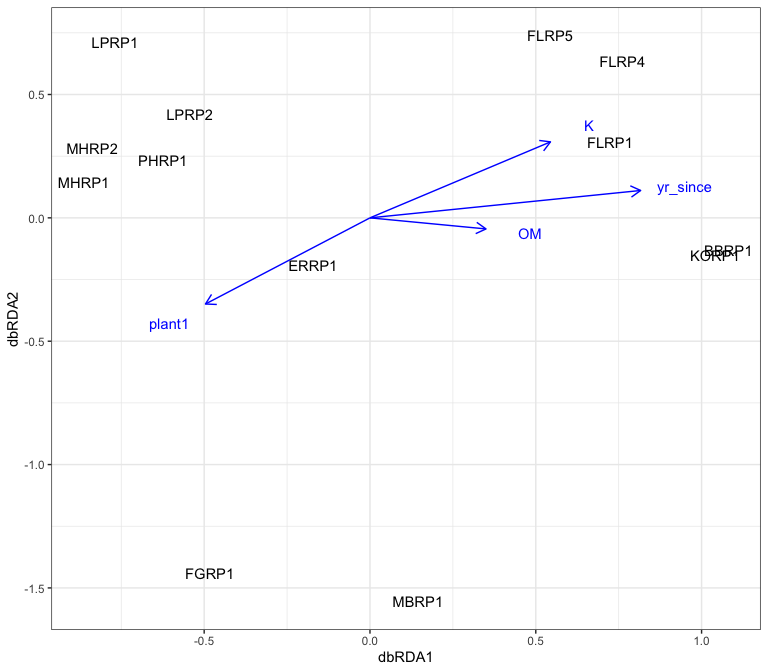
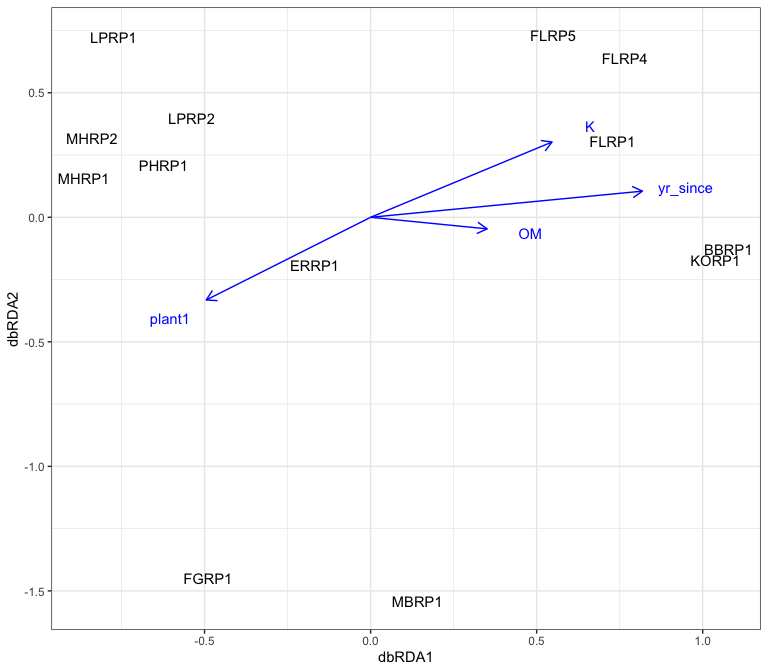
UPDATED tgr_constrained.R & .md

diff --git a/tgr_constrained.md b/tgr_constrained.md
@@ -2,7 +2,7 @@ Constrained and summary analysis
 ================
 Beau Larkin
 
-Last updated: 17 November, 2023
+Last updated: 01 December, 2023
 
 - [Description](#description)
 - [Packages and libraries](#packages-and-libraries)
@@ -31,6 +31,7 @@ Last updated: 17 November, 2023
       abundance)](#general-fungal-community-its-sequence-abundance)
     - [AMF community (18S sequence
       abundance)](#amf-community-18s-sequence-abundance)
+  - [Effects of soil and plants](#effects-of-soil-and-plants)
   - [Response correlations](#response-correlations)
 
 # Description
@@ -298,7 +299,7 @@ pspe <- list(
 ) %>% map(function(x) x %>% 
               rename(field_name = SITE) %>% 
               left_join(sites %>% select(starts_with("field"), region), by = join_by("field_name")) %>% 
-              select(field_name, field_type, region, everything(), -field_key))
+              select(field_name, field_type, region, everything(), -field_key, -BARESOIL, -LITTER))
 ```
 
 ## Environmental data
@@ -413,22 +414,22 @@ the abundance and presence/absence plant data.
     ## 
     ## $values
     ##   Dim Eigenvalues Relative_eig Broken_stick Cumul_eig Cumul_br_stick
-    ## 1   1   0.6185814    0.2317320    0.3143298 0.2317320      0.3143298
-    ## 2   2   0.5066828    0.1898127    0.2032187 0.4215447      0.5175485
-    ## 3   3   0.4485128    0.1680212    0.1476631 0.5895659      0.6652116
+    ## 1   1   0.6592570    0.2365141    0.3143298 0.2365141      0.3143298
+    ## 2   2   0.5440994    0.1952003    0.2032187 0.4317144      0.5175485
+    ## 3   3   0.4680283    0.1679092    0.1476631 0.5996236      0.6652116
     ## 
     ## $site_vectors
     ##            Axis.1      Axis.2
-    ## BBRP1  0.18696712 -0.05719659
-    ## ERRP1 -0.42120632  0.07701724
-    ## FGRP1  0.22768657 -0.23830561
-    ## KORP1  0.25705084 -0.02418826
-    ## LPRP1  0.07534780  0.39879804
-    ## LPRP2  0.17161860  0.26606275
-    ## MBRP1  0.15075088 -0.18310740
-    ## MHRP1 -0.02686684 -0.27809252
-    ## MHRP2 -0.44609709 -0.20258732
-    ## PHRP1 -0.17525156  0.24159967
+    ## BBRP1  0.20290126 -0.09287398
+    ## ERRP1 -0.43044076 -0.07760580
+    ## FGRP1  0.28666433 -0.07970389
+    ## KORP1  0.26355718 -0.14999596
+    ## LPRP1 -0.02010419  0.47968897
+    ## LPRP2  0.12484815  0.38958210
+    ## MBRP1  0.17920064 -0.21338125
+    ## MHRP1  0.01611089 -0.20409549
+    ## MHRP2 -0.45084157 -0.14870043
+    ## PHRP1 -0.17189593  0.09708574
 
 ``` r
 (pspe_pcoa_pr <- pcoa_fun(pspe$pr, rg = c("BM", "FG", "LP", "FL"), method = "jaccard", binary = TRUE))
@@ -439,25 +440,25 @@ the abundance and presence/absence plant data.
     ## 
     ## $values
     ##   Dim Eigenvalues Relative_eig Broken_stick Cumul_eig Cumul_br_stick
-    ## 1   1   0.9879052    0.2421821    0.2586009 0.2421821      0.2586009
-    ## 2   2   0.5728272    0.1404269    0.1752676 0.3826090      0.4338684
-    ## 3   3   0.4443108    0.1089215    0.1336009 0.4915305      0.5674693
+    ## 1   1   0.9562197    0.2299358    0.2586009 0.2299358      0.2586009
+    ## 2   2   0.5920732    0.1423719    0.1752676 0.3723077      0.4338684
+    ## 3   3   0.4634133    0.1114339    0.1336009 0.4837416      0.5674693
     ## 
     ## $site_vectors
     ##            Axis.1       Axis.2
-    ## BBRP1  0.21067579  0.087434428
-    ## ERRP1  0.22272287 -0.260905872
-    ## FGRP1  0.09141325  0.044743613
-    ## FLRP1 -0.52791888 -0.028042798
-    ## FLRP4 -0.52644384 -0.007428271
-    ## FLRP5 -0.42831294  0.043201635
-    ## KORP1  0.16233582  0.339613190
-    ## LPRP1  0.19555559  0.224978538
-    ## LPRP2  0.10602315  0.266489743
-    ## MBRP1  0.06484968 -0.137320443
-    ## MHRP1  0.19700860 -0.295295743
-    ## MHRP2  0.10057182 -0.374191665
-    ## PHRP1  0.13151908  0.096723644
+    ## BBRP1  0.20641293  0.094262023
+    ## ERRP1  0.21439889 -0.274249184
+    ## FGRP1  0.08005329  0.046027339
+    ## FLRP1 -0.52071381 -0.016041532
+    ## FLRP4 -0.51926721  0.004443971
+    ## FLRP5 -0.41527736  0.051578203
+    ## KORP1  0.16890218  0.327780631
+    ## LPRP1  0.19555015  0.233535348
+    ## LPRP2  0.11823091  0.253683185
+    ## MBRP1  0.05335394 -0.139092020
+    ## MHRP1  0.18966781 -0.305187933
+    ## MHRP2  0.08054080 -0.389175199
+    ## PHRP1  0.14814748  0.112435167
 
 ## Microbial communities with explanatory and covariables
 
@@ -529,7 +530,7 @@ dataset.
     ## 
     ## Model: dbrda(formula = fspe_bray ~ Condition(covars) + yr_since, data = expl, sqrt.dist = TRUE)
     ##          Df SumOfSqs      F Pr(>F)  
-    ## Model     1  0.54709 1.7407  0.016 *
+    ## Model     1  0.54709 1.7407 0.0155 *
     ## Residual  6  1.88570                
     ## ---
     ## Signif. codes:  0 '***' 0.001 '**' 0.01 '*' 0.05 '.' 0.1 ' ' 1
@@ -542,7 +543,7 @@ dataset.
     ## 
     ## Model: dbrda(formula = fspe_bray ~ Condition(covars) + yr_since, data = expl, sqrt.dist = TRUE)
     ##          Df SumOfSqs      F Pr(>F)  
-    ## dbRDA1    1  0.54709 1.7407 0.0215 *
+    ## dbRDA1    1  0.54709 1.7407 0.0165 *
     ## Residual  6  1.88570                
     ## ---
     ## Signif. codes:  0 '***' 0.001 '**' 0.01 '*' 0.05 '.' 0.1 ' ' 1
@@ -600,7 +601,7 @@ plot_dbrda(site_sc = dbrda_wi_tr_its$plot_data$sites,
     ## 
     ## Model: dbrda(formula = fspe_bray ~ Condition(covars) + yr_since, data = expl, sqrt.dist = TRUE)
     ##          Df SumOfSqs      F Pr(>F)  
-    ## Model     1  0.54709 1.7407 0.0145 *
+    ## Model     1  0.54709 1.7407 0.0155 *
     ## Residual  6  1.88570                
     ## ---
     ## Signif. codes:  0 '***' 0.001 '**' 0.01 '*' 0.05 '.' 0.1 ' ' 1
@@ -613,7 +614,7 @@ plot_dbrda(site_sc = dbrda_wi_tr_its$plot_data$sites,
     ## 
     ## Model: dbrda(formula = fspe_bray ~ Condition(covars) + yr_since, data = expl, sqrt.dist = TRUE)
     ##          Df SumOfSqs      F Pr(>F)  
-    ## dbRDA1    1  0.54709 1.7407  0.016 *
+    ## dbRDA1    1  0.54709 1.7407  0.013 *
     ## Residual  6  1.88570                
     ## ---
     ## Signif. codes:  0 '***' 0.001 '**' 0.01 '*' 0.05 '.' 0.1 ' ' 1
@@ -662,9 +663,9 @@ result of the test is identical to the previous one.
     ## Number of permutations: 1999
     ## 
     ## Model: dbrda(formula = fspe_bray ~ Condition(covars) + yr_since, data = expl, sqrt.dist = TRUE)
-    ##          Df SumOfSqs      F Pr(>F)    
-    ## Model     1  0.70182 2.2329  0.001 ***
-    ## Residual  9  2.82875                  
+    ##          Df SumOfSqs      F Pr(>F)   
+    ## Model     1  0.70182 2.2329  0.002 **
+    ## Residual  9  2.82875                 
     ## ---
     ## Signif. codes:  0 '***' 0.001 '**' 0.01 '*' 0.05 '.' 0.1 ' ' 1
     ## 
@@ -675,9 +676,9 @@ result of the test is identical to the previous one.
     ## Number of permutations: 1999
     ## 
     ## Model: dbrda(formula = fspe_bray ~ Condition(covars) + yr_since, data = expl, sqrt.dist = TRUE)
-    ##          Df SumOfSqs      F Pr(>F)    
-    ## dbRDA1    1  0.70182 2.2329  0.001 ***
-    ## Residual  9  2.82875                  
+    ##          Df SumOfSqs      F Pr(>F)   
+    ## dbRDA1    1  0.70182 2.2329  0.002 **
+    ## Residual  9  2.82875                 
     ## ---
     ## Signif. codes:  0 '***' 0.001 '**' 0.01 '*' 0.05 '.' 0.1 ' ' 1
     ## 
@@ -778,10 +779,10 @@ for the number of conditional and explanatory variables used, perhaps.
     ## Permutation: free
     ## Number of permutations: 1999
     ## 
-    ## Model: dbrda(formula = fspe_bray ~ Condition(covars) + yr_since, data = expl, sqrt.dist = TRUE)
-    ##          Df SumOfSqs      F Pr(>F)   
-    ## Model     1  0.57408 2.7216  0.008 **
-    ## Residual  6  1.26562                 
+    ## Model: dbrda(formula = fspe_bray ~ Condition(covars) + forb, data = expl, sqrt.dist = TRUE)
+    ##          Df SumOfSqs     F Pr(>F)   
+    ## Model     1  0.54155 2.503 0.0075 **
+    ## Residual  6  1.29816                
     ## ---
     ## Signif. codes:  0 '***' 0.001 '**' 0.01 '*' 0.05 '.' 0.1 ' ' 1
     ## 
@@ -791,31 +792,31 @@ for the number of conditional and explanatory variables used, perhaps.
     ## Permutation: free
     ## Number of permutations: 1999
     ## 
-    ## Model: dbrda(formula = fspe_bray ~ Condition(covars) + yr_since, data = expl, sqrt.dist = TRUE)
-    ##          Df SumOfSqs      F Pr(>F)   
-    ## dbRDA1    1  0.57408 2.7216 0.0045 **
-    ## Residual  6  1.26562                 
+    ## Model: dbrda(formula = fspe_bray ~ Condition(covars) + forb, data = expl, sqrt.dist = TRUE)
+    ##          Df SumOfSqs     F Pr(>F)   
+    ## dbRDA1    1  0.54155 2.503  0.009 **
+    ## Residual  6  1.29816                
     ## ---
     ## Signif. codes:  0 '***' 0.001 '**' 0.01 '*' 0.05 '.' 0.1 ' ' 1
     ## 
     ## $select_mod
-    ## Call: dbrda(formula = fspe_bray ~ Condition(covars) + yr_since, data =
+    ## Call: dbrda(formula = fspe_bray ~ Condition(covars) + forb, data =
     ## expl, sqrt.dist = TRUE)
     ## 
     ##               Inertia Proportion Rank
     ## Total          2.4975     1.0000     
     ## Conditional    0.6578     0.2634    2
-    ## Constrained    0.5741     0.2299    1
-    ## Unconstrained  1.2656     0.5068    6
+    ## Constrained    0.5415     0.2168    1
+    ## Unconstrained  1.2982     0.5198    6
     ## Inertia is Bray distance 
     ## 
     ## Eigenvalues for constrained axes:
     ## dbRDA1 
-    ## 0.5741 
+    ## 0.5415 
     ## 
     ## Eigenvalues for unconstrained axes:
     ##    MDS1    MDS2    MDS3    MDS4    MDS5    MDS6 
-    ## 0.30700 0.27775 0.21350 0.18386 0.15709 0.12642
+    ## 0.31501 0.30505 0.21457 0.17639 0.16072 0.12640
 
 Global and individual axis test for axis 1 were significant in site rank
 at p\<0.01. Years since restoration was the selected explanatory
@@ -852,7 +853,7 @@ plot_dbrda(site_sc = dbrda_wi_tr_amf$plot_data$sites,
     ## 
     ## Model: dbrda(formula = fspe_bray ~ Condition(covars) + yr_since, data = expl, sqrt.dist = TRUE)
     ##          Df SumOfSqs      F Pr(>F)   
-    ## Model     1  0.57408 2.7216  0.004 **
+    ## Model     1  0.57408 2.7216 0.0045 **
     ## Residual  6  1.26562                 
     ## ---
     ## Signif. codes:  0 '***' 0.001 '**' 0.01 '*' 0.05 '.' 0.1 ' ' 1
@@ -865,7 +866,7 @@ plot_dbrda(site_sc = dbrda_wi_tr_amf$plot_data$sites,
     ## 
     ## Model: dbrda(formula = fspe_bray ~ Condition(covars) + yr_since, data = expl, sqrt.dist = TRUE)
     ##          Df SumOfSqs      F Pr(>F)   
-    ## dbRDA1    1  0.57408 2.7216 0.0065 **
+    ## dbRDA1    1  0.57408 2.7216  0.004 **
     ## Residual  6  1.26562                 
     ## ---
     ## Signif. codes:  0 '***' 0.001 '**' 0.01 '*' 0.05 '.' 0.1 ' ' 1
@@ -913,7 +914,7 @@ restoration was selected with the same strength as the previous test.
     ## 
     ## Model: dbrda(formula = fspe_bray ~ Condition(covars) + yr_since, data = expl, sqrt.dist = TRUE)
     ##          Df SumOfSqs      F Pr(>F)   
-    ## Model     1  0.69717 3.3004  0.002 **
+    ## Model     1  0.69717 3.3004 0.0015 **
     ## Residual  9  1.90112                 
     ## ---
     ## Signif. codes:  0 '***' 0.001 '**' 0.01 '*' 0.05 '.' 0.1 ' ' 1
@@ -925,9 +926,9 @@ restoration was selected with the same strength as the previous test.
     ## Number of permutations: 1999
     ## 
     ## Model: dbrda(formula = fspe_bray ~ Condition(covars) + yr_since, data = expl, sqrt.dist = TRUE)
-    ##          Df SumOfSqs      F Pr(>F)   
-    ## dbRDA1    1  0.69717 3.3004 0.0025 **
-    ## Residual  9  1.90112                 
+    ##          Df SumOfSqs      F Pr(>F)    
+    ## dbRDA1    1  0.69717 3.3004  0.001 ***
+    ## Residual  9  1.90112                  
     ## ---
     ## Signif. codes:  0 '***' 0.001 '**' 0.01 '*' 0.05 '.' 0.1 ' ' 1
     ## 
@@ -964,6 +965,75 @@ plot_dbrda(site_sc = dbrda_all_pr_amf$plot_data$sites,
 
 Microbial communities align with years since restoration across regions
 and types (general fungi and amf).
+
+## Effects of soil and plants
+
+We know that restored plant communities differ among fields, and that
+those differences change in a systematic way over time. Within our
+chronosequence sites at Blue Mounds, what is the relative effect of soil
+and plant data on soil microbes?
+
+Variation partitioning will be used. Since forward selection failed to
+find a parsimonious number of important explanatory variables, we’ll
+just use the entire plant and soil datasets here to look for the
+relative contribution of these weak effects.
+
+With so many explanatory axes, the analysis failed with raw data, so
+explanatory data will first be transformed into PCoA axes.
+
+``` r
+soil_pcoa <- pcoa_fun(soil, rg = c("BM"), corr = "lingoes")
+vpdat_its <- list(
+    Y = fspe$its %>% filter(region == "BM", field_type == "restored") %>% 
+        select(-field_type, -region) %>% 
+        data.frame(., row.names = 1),
+    X1 = pspe_pcoa_ab$site_vectors[-c(3,5,6), ],
+    X2 = soil_pcoa$site_vectors
+)
+vpdat_its_zcols <- vpdat_its %>% map(\(df) which(apply(df, 2, sum) == 0))
+```
+
+``` r
+(vp_its <- varpart(vpdat_its$Y %>% select(-vpdat_its_zcols$Y), vpdat_its$X1, vpdat_its$X2))
+```
+
+    ## 
+    ## Partition of variance in RDA 
+    ## 
+    ## Call: varpart(Y = vpdat_its$Y %>% select(-vpdat_its_zcols$Y), X =
+    ## vpdat_its$X1, vpdat_its$X2)
+    ## 
+    ## Explanatory tables:
+    ## X1:  vpdat_its$X1
+    ## X2:  vpdat_its$X2 
+    ## 
+    ## No. of explanatory tables: 2 
+    ## Total variation (SS): 264966495 
+    ##             Variance: 44161082 
+    ## No. of observations: 7 
+    ## 
+    ## Partition table:
+    ##                      Df R.squared Adj.R.squared Testable
+    ## [a+c] = X1            2   0.38680       0.08020     TRUE
+    ## [b+c] = X2            2   0.34582       0.01873     TRUE
+    ## [a+b+c] = X1+X2       4   0.70243       0.10728     TRUE
+    ## Individual fractions                                    
+    ## [a] = X1|X2           2                 0.08855     TRUE
+    ## [b] = X2|X1           2                 0.02708     TRUE
+    ## [c]                   0                -0.00835    FALSE
+    ## [d] = Residuals                         0.89272    FALSE
+    ## ---
+    ## Use function 'rda' to test significance of fractions of interest
+
+``` r
+plot(vp_its, digits = 2, bg = c("tan", "palegreen"))
+```
+
+<img src="tgr_constrained_files/figure-gfm/varpart_its_plot-1.png" style="display: block; margin: auto;" />
+
+With soil axes accounted for, plant axes explain 14% of the ITS fungal
+community variation in Blue Mounds. The unique explanation made by soil
+variables is about half as much. Neither is a powerful explanation.
 
 ## Response correlations
 
